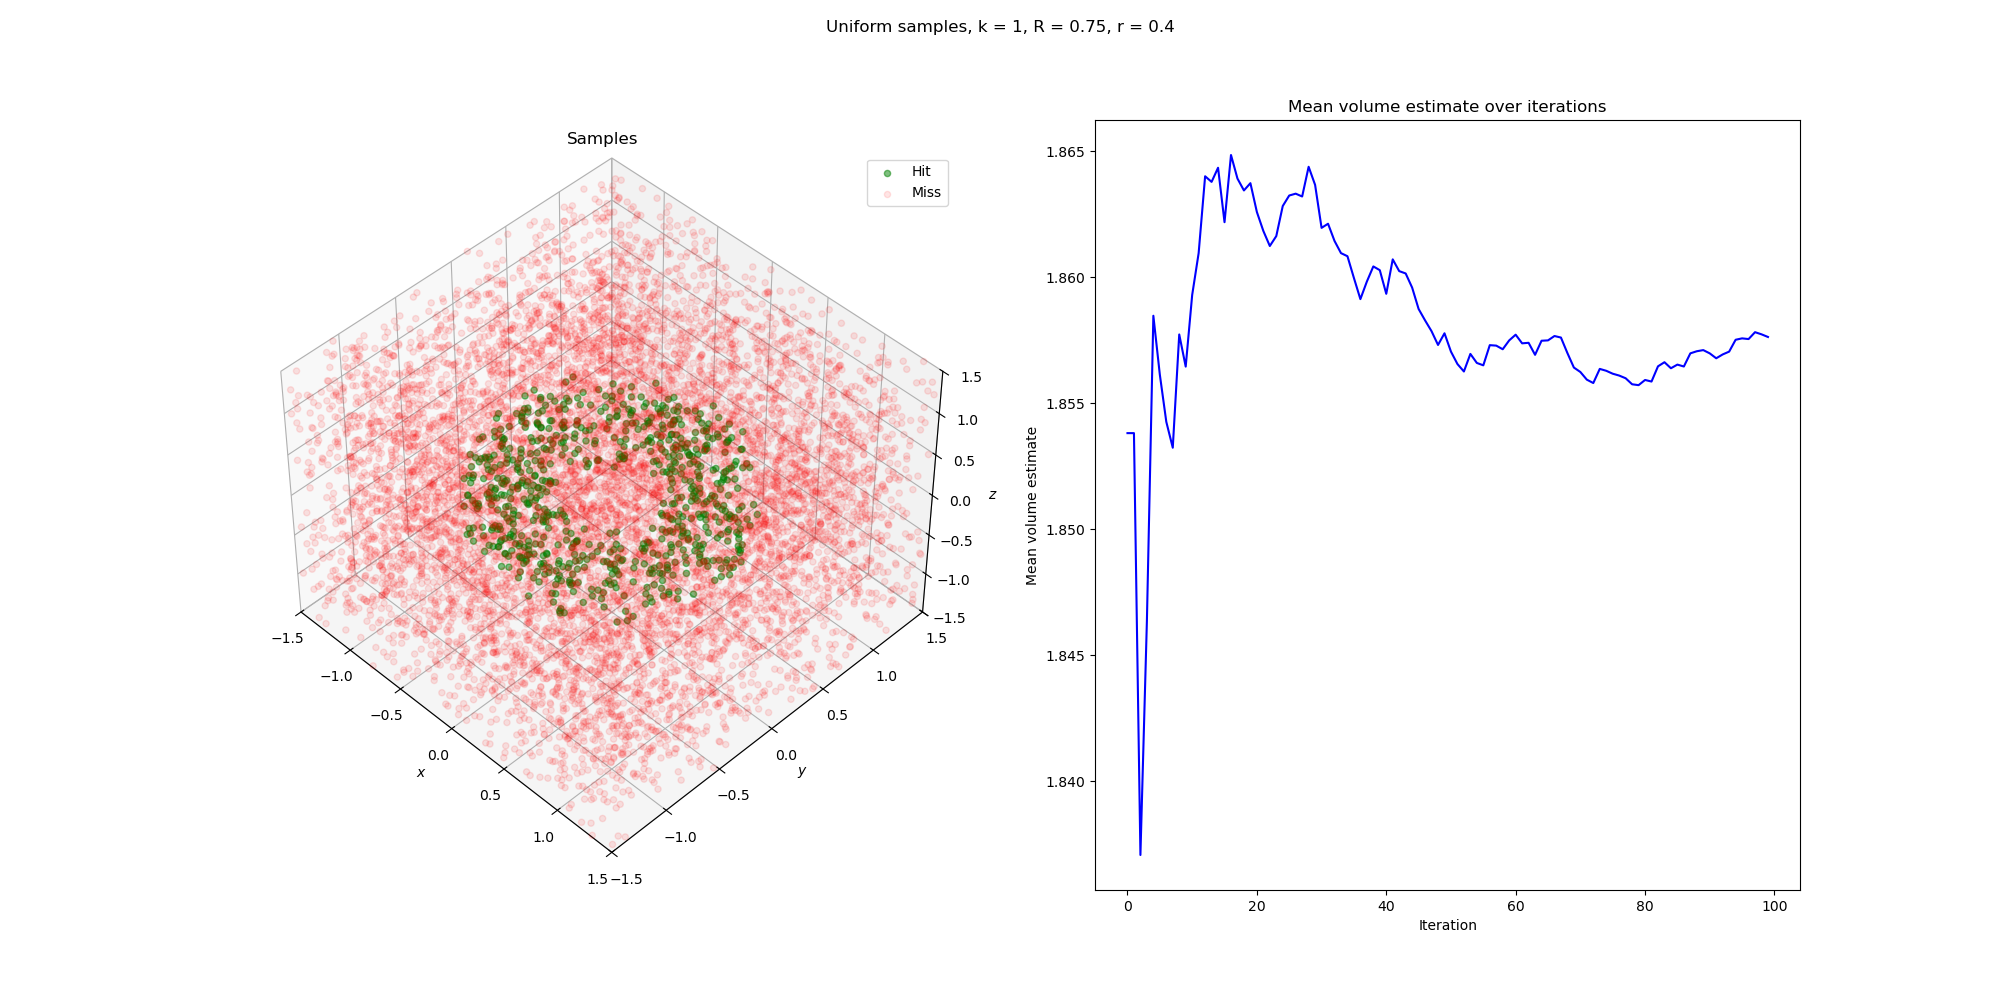
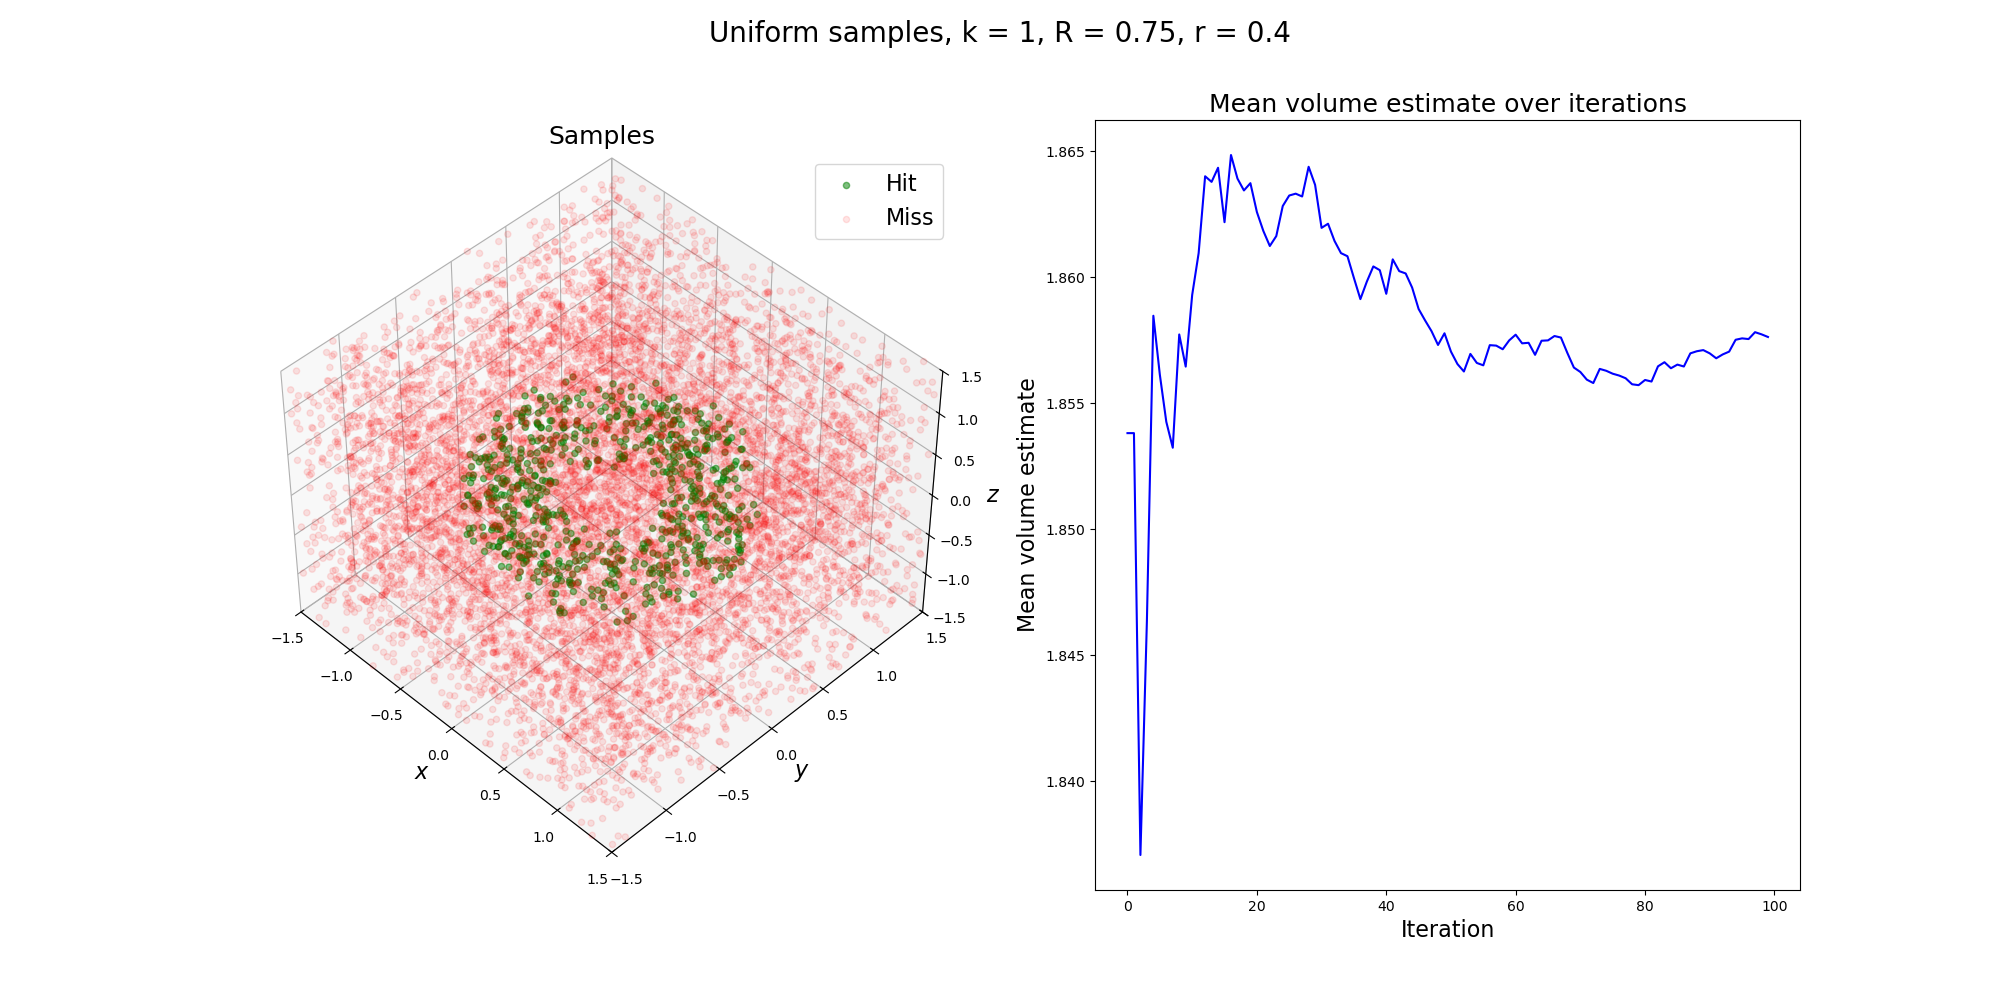
more readable figures

diff --git a/assignment_1.py b/assignment_1.py
@@ -100,7 +100,7 @@ def error(intersection):
 
 def create_figure(samples, intersection, nonintersection, estimates, name=None):
     fig = plt.figure(figsize=(20,10))
-    fig.suptitle(name)
+    fig.suptitle(name, fontsize=20)
     ax1 = fig.add_subplot(1, 2, 1, projection='3d')
     plot_samples(samples, intersection, nonintersection, ax=ax1)
     ax2 = fig.add_subplot(1, 2, 2)
@@ -125,14 +125,14 @@ def plot_samples(samples, intersection, nonintersection, fig=None, intersection_
         ax = fig.add_subplot(projection='3d')
     ax.scatter(intersection[0, intersection_idx], intersection[1, intersection_idx], intersection[2, intersection_idx], c='g', alpha=0.5, label="Hit")
     ax.scatter(nonintersection[0, nonintersection_idx], nonintersection[1, nonintersection_idx], nonintersection[2, nonintersection_idx], c='r', alpha=0.1, label="Miss")
-    ax.set_xlabel(r'$x$')
-    ax.set_ylabel(r'$y$')
-    ax.set_zlabel(r'$z$')
+    ax.set_xlabel(r'$x$', fontsize=16)
+    ax.set_ylabel(r'$y$', fontsize=16)
+    ax.set_zlabel(r'$z$', fontsize=16)
     ax.set_xlim(-BOX_BOUND/2, BOX_BOUND/2)
     ax.set_ylim(-BOX_BOUND/2, BOX_BOUND/2)
     ax.set_zlim(-BOX_BOUND/2, BOX_BOUND/2)
-    ax.legend()
-    ax.set_title("Samples")
+    ax.legend(fontsize=16)
+    ax.set_title("Samples", fontsize=18)
     ax.view_init(elev=45, azim=-45)
 
 def plot_means(estimates, ax=None):
@@ -147,9 +147,9 @@ def plot_means(estimates, ax=None):
         fig = plt.figure(figsize=(10,10))
         ax = fig.add_subplot()
     ax.plot(np.arange(len(means)), means, 'b', label="Mean volume estimate")
-    ax.set_xlabel("Iteration")
-    ax.set_ylabel("Mean volume estimate")
-    ax.set_title("Mean volume estimate over iterations")
+    ax.set_xlabel("Iteration", fontsize=16)
+    ax.set_ylabel("Mean volume estimate", fontsize=16)
+    ax.set_title("Mean volume estimate over iterations", fontsize=18)
 
 
 def estimate_volume(intersection, box_bound):
